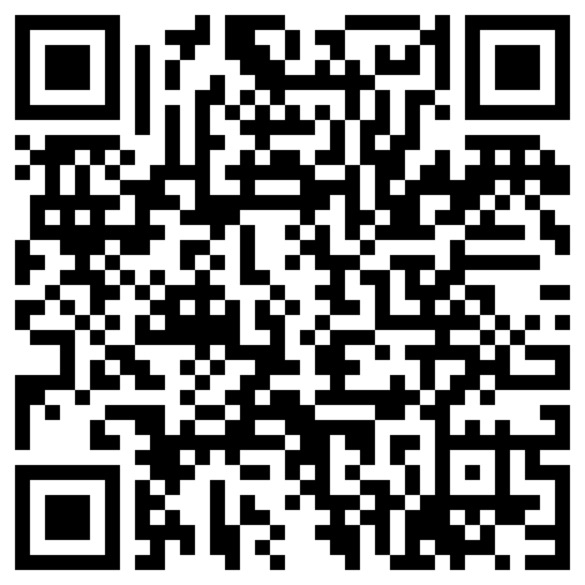
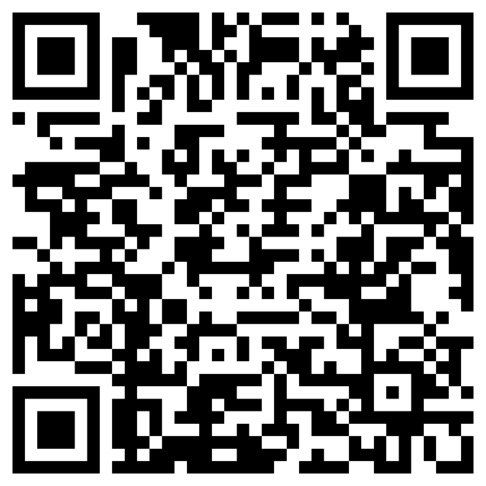
.

diff --git a/bch1.html b/bch1.html
@@ -1,8 +1,8 @@
 <!DOCTYPE html>
 <html>
 <head>
-  <title>buy via Ethereum</title>
-  <link rel="shortcut icon" type="image/ico" href="assets/eth.png">
+  <title>buy via Bitcoin cash</title>
+  <link rel="shortcut icon" type="image/ico" href="assets/bch.png">
 
   <meta http-equiv="Content-Type" content="text/html; charset=UTF-8">
   <meta name="viewport" content="width=device-width, initial-scale=1">
@@ -15,15 +15,15 @@
 <body>
 
     <div id="wrapper">
-    <span id="display-name">$ETH 1.99</span>
+    <span id="display-name">$Tether (USDT) 3.99</span>
 
   <div style="padding-top: 15px;">
     <hr>
-  <p style="width: 80%; margin-left: auto; margin-right: auto; font-size: 55%; text-align: center;">This address is for ETH only
-Send only ETH to this deposit address. Sending any other currency to this address may result in the loss of your deposit.</p>
+  <p style="width: 80%; margin-left: auto; margin-right: auto; font-size: 55%; text-align: center;">This address is for ERC20 USDT only
+Send only ERC20 USDT to this deposit address. Sending any other currency to this address may result in the loss of your deposit.</p>
   </div>
   <hr>
-    <img id="checkout-image" src="./assets/ethqr.png" "=">
+    <img id="checkout-image" src="./assets/bchqr.png" "=">
 
 <div style="padding-top: 15px;">
   <hr>

diff --git a/bch2.html b/bch2.html
@@ -1,8 +1,8 @@
 <!DOCTYPE html>
 <html>
 <head>
-  <title>buy via Ethereum</title>
-  <link rel="shortcut icon" type="image/ico" href="assets/eth.png">
+  <title>buy via Bitcoin cash</title>
+  <link rel="shortcut icon" type="image/ico" href="assets/bch.png">
 
   <meta http-equiv="Content-Type" content="text/html; charset=UTF-8">
   <meta name="viewport" content="width=device-width, initial-scale=1">
@@ -15,15 +15,15 @@
 <body>
 
     <div id="wrapper">
-    <span id="display-name">$ETH 1.99</span>
+    <span id="display-name">$Tether (USDT) 1.00</span>
 
   <div style="padding-top: 15px;">
     <hr>
-  <p style="width: 80%; margin-left: auto; margin-right: auto; font-size: 55%; text-align: center;">This address is for ETH only
-Send only ETH to this deposit address. Sending any other currency to this address may result in the loss of your deposit.</p>
+  <p style="width: 80%; margin-left: auto; margin-right: auto; font-size: 55%; text-align: center;">This address is for ERC20 USDT only
+Send only ERC20 USDT to this deposit address. Sending any other currency to this address may result in the loss of your deposit.</p>
   </div>
   <hr>
-    <img id="checkout-image" src="./assets/ethqr.png" "=">
+    <img id="checkout-image" src="./assets/bchqr.png" "=">
 
 <div style="padding-top: 15px;">
   <hr>

diff --git a/bch.html b/bch.html
@@ -15,19 +15,19 @@
 <body>
 
     <div id="wrapper">
-    <span id="display-name">$BCH 0.0018</span>
+    <span id="display-name">$Tether (USDT) 1.99</span>
 
   <div style="padding-top: 15px;">
     <hr>
-  <p style="width: 80%; margin-left: auto; margin-right: auto; font-size: 55%; text-align: center;">This address is for BCH only
-Send only BCH to this deposit address. Sending any other currency to this address may result in the loss of your deposit.</p>
+  <p style="width: 80%; margin-left: auto; margin-right: auto; font-size: 55%; text-align: center;">This address is for ERC20 USDT only
+Send only ERC20 USDT to this deposit address. Sending any other currency to this address may result in the loss of your deposit.</p>
   </div>
   <hr>
     <img id="checkout-image" src="./assets/bchqr.png" "=">
 
 <div style="padding-top: 15px;">
   <hr>
-<p style="width: 80%; margin-left: auto; margin-right: auto; font-size: 88%; text-align: center;">qrjyktjestfjhwq3egu72xk6zgc700dhr5ucxe7ctw</p>
+<p style="width: 80%; margin-left: auto; margin-right: auto; font-size: 77%; text-align: center;">0x1DEDace48c77acD39f29487de8B1B968ABcC4374</p>
 </div>
 
 </body></html>

diff --git a/iKGPack.html b/iKGPack.html
@@ -52,9 +52,9 @@ if u want buy only one package?  <a href="https://repo.ikghd.me/depictions/?p=me
         <div class="social-popout">
         <div class="columns">
         <ul class="lpro">
-          <li><a href="https://repo.ikghd.me/usdt1" target="_blank"><img src="assets/usdt.png" alt="Tether USDT"></a></li>
+          <li><a href="https://repo.ikghd.me/bch1" target="_blank"><img src="assets/bch.png" alt="BTC Cash BCH"></a></li>
           <li><a href="https://repo.ikghd.me/btc" target="_blank"><img src="assets/btc.png" alt="Bitcoin BTC"></a></li>
-          <li><a href="https://repo.ikghd.me/bch" target="_blank"><img src="assets/bch.png" alt="BTC Cash BCH"></a></li>
+          <li><a href="https://repo.ikghd.me/usdt1" target="_blank"><img src="assets/usdt.png" alt="Tether USDT"></a></li>
           <li><a href="https://repo.ikghd.me/eth" target="_blank"><img src="assets/eth.png" alt="Ethereum ETH"></a></li>
         </ul>
         </div>

diff --git a/OL3DTube.html b/OL3DTube.html
@@ -44,9 +44,9 @@
         <div class="social-popout">
         <div class="columns">
         <ul class="lpro">
-          <li><a href="https://repo.ikghd.me/usdt" target="_blank"><img src="assets/usdt.png" alt="Tether USDT"></a></li>
+          <li><a href="https://repo.ikghd.me/bch2" target="_blank"><img src="assets/bch.png" alt="BTC Cash BCH"></a></li>
           <li><a href="https://repo.ikghd.me/btc" target="_blank"><img src="assets/btc.png" alt="Bitcoin BTC"></a></li>
-          <li><a href="https://repo.ikghd.me/bch" target="_blank"><img src="assets/bch.png" alt="BTC Cash BCH"></a></li>
+          <li><a href="https://repo.ikghd.me/usdt2" target="_blank"><img src="assets/usdt.png" alt="Tether USDT"></a></li>
           <li><a href="https://repo.ikghd.me/eth" target="_blank"><img src="assets/eth.png" alt="Ethereum ETH"></a></li>
         </ul>
         </div>

diff --git a/YouTubeKiller.html b/YouTubeKiller.html
@@ -46,9 +46,9 @@
         <div class="social-popout">
         <div class="columns">
         <ul class="lpro">
-          <li><a href="https://repo.ikghd.me/usdt" target="_blank"><img src="assets/usdt.png" alt="Tether USDT"></a></li>
-          <li><a href="https://repo.ikghd.me/btc" target="_blank"><img src="assets/btc.png" alt="Bitcoin BTC"></a></li>
           <li><a href="https://repo.ikghd.me/bch" target="_blank"><img src="assets/bch.png" alt="BTC Cash BCH"></a></li>
+          <li><a href="https://repo.ikghd.me/btc" target="_blank"><img src="assets/btc.png" alt="Bitcoin BTC"></a></li>
+          <li><a href="https://repo.ikghd.me/usdt" target="_blank"><img src="assets/usdt.png" alt="Tether USDT"></a></li>
           <li><a href="https://repo.ikghd.me/eth" target="_blank"><img src="assets/eth.png" alt="Ethereum ETH"></a></li>
         </ul>
         </div>

diff --git a/iCTMiZ.html b/iCTMiZ.html
@@ -44,9 +44,9 @@
         <div class="social-popout">
         <div class="columns">
         <ul class="lpro">
-          <li><a href="https://repo.ikghd.me/usdt" target="_blank"><img src="assets/usdt.png" alt="Tether USDT"></a></li>
-          <li><a href="https://repo.ikghd.me/btc" target="_blank"><img src="assets/btc.png" alt="Bitcoin BTC"></a></li>
           <li><a href="https://repo.ikghd.me/bch" target="_blank"><img src="assets/bch.png" alt="BTC Cash BCH"></a></li>
+          <li><a href="https://repo.ikghd.me/btc" target="_blank"><img src="assets/btc.png" alt="Bitcoin BTC"></a></li>
+          <li><a href="https://repo.ikghd.me/usdt" target="_blank"><img src="assets/usdt.png" alt="Tether USDT"></a></li>
           <li><a href="https://repo.ikghd.me/eth" target="_blank"><img src="assets/eth.png" alt="Ethereum ETH"></a></li>
         </ul>
         </div>

diff --git a/iNstaKiller.html b/iNstaKiller.html
@@ -45,9 +45,9 @@
         <div class="social-popout">
         <div class="columns">
         <ul class="lpro">
-          <li><a href="https://repo.ikghd.me/usdt" target="_blank"><img src="assets/usdt.png" alt="Tether USDT"></a></li>
-          <li><a href="https://repo.ikghd.me/btc" target="_blank"><img src="assets/btc.png" alt="Bitcoin BTC"></a></li>
           <li><a href="https://repo.ikghd.me/bch" target="_blank"><img src="assets/bch.png" alt="BTC Cash BCH"></a></li>
+          <li><a href="https://repo.ikghd.me/btc" target="_blank"><img src="assets/btc.png" alt="Bitcoin BTC"></a></li>
+          <li><a href="https://repo.ikghd.me/usdt" target="_blank"><img src="assets/usdt.png" alt="Tether USDT"></a></li>
           <li><a href="https://repo.ikghd.me/eth" target="_blank"><img src="assets/eth.png" alt="Ethereum ETH"></a></li>
         </ul>
         </div>

diff --git a/iCTMiZXiV.html b/iCTMiZXiV.html
@@ -43,9 +43,9 @@
     <div class="social-popout">
     <div class="columns">
     <ul class="lpro">
-    <li><a href="https://repo.ikghd.me/usdt" target="_blank"><img src="assets/usdt.png" alt="Tether USDT"></a></li>
-    <li><a href="https://repo.ikghd.me/btc" target="_blank"><img src="assets/btc.png" alt="Bitcoin BTC"></a></li>
     <li><a href="https://repo.ikghd.me/bch" target="_blank"><img src="assets/bch.png" alt="BTC Cash BCH"></a></li>
+    <li><a href="https://repo.ikghd.me/btc" target="_blank"><img src="assets/btc.png" alt="Bitcoin BTC"></a></li>
+    <li><a href="https://repo.ikghd.me/usdt" target="_blank"><img src="assets/usdt.png" alt="Tether USDT"></a></li>
     <li><a href="https://repo.ikghd.me/eth" target="_blank"><img src="assets/eth.png" alt="Ethereum ETH"></a></li>
     </ul>
     </div>

diff --git a/usdt2.html b/usdt2.html
@@ -15,7 +15,7 @@
 <body>
 
     <div id="wrapper">
-    <span id="display-name">$Tether (USDT) 1.99</span>
+    <span id="display-name">$Tether (USDT) 1.00</span>
 
   <div style="padding-top: 15px;">
     <hr>

diff --git a/btc.html b/btc.html
@@ -15,7 +15,7 @@
 <body>
 
     <div id="wrapper">
-    <span id="display-name">$BTC 0.000020</span>
+    <span id="display-name">$BTC 1.99</span>
 
   <div style="padding-top: 15px;">
     <hr>
